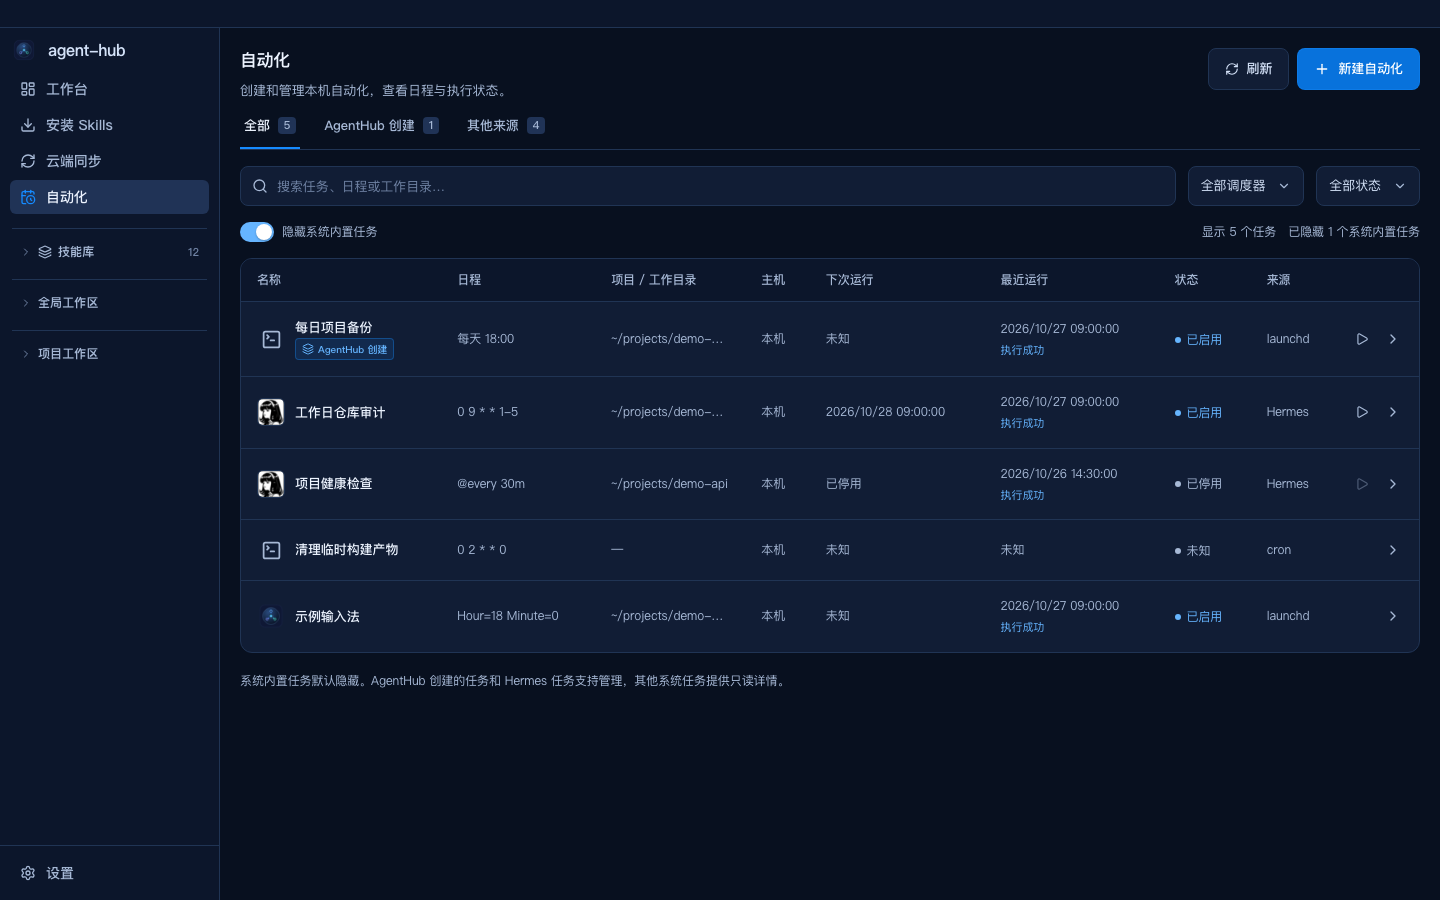
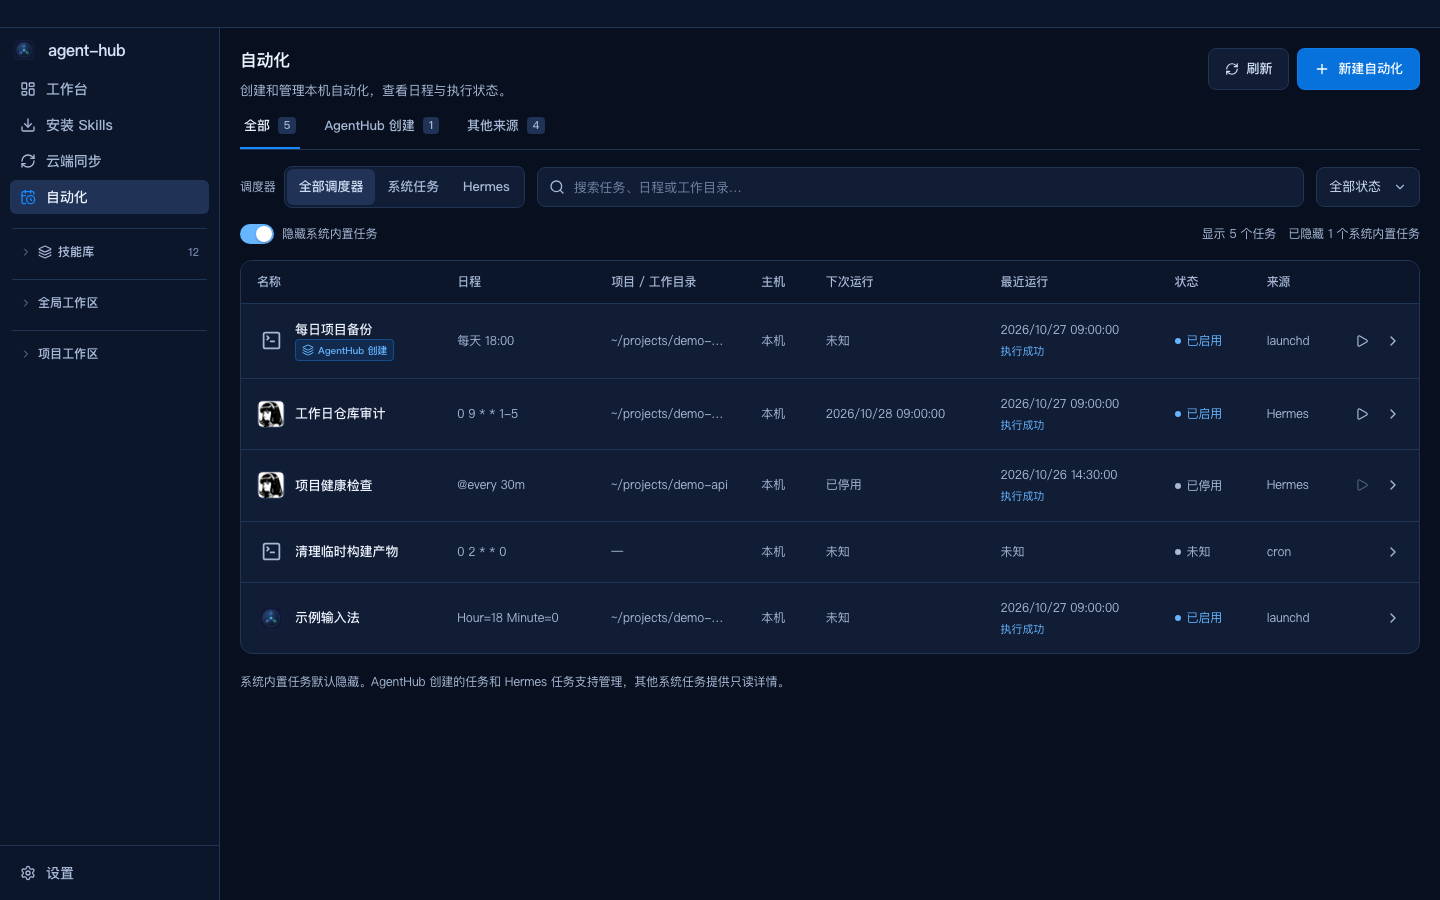
fix(automation): 展示 Hermes 调度器快捷筛选
Refs #209

将调度器下拉改为常显的全部／系统任务／Hermes 按钮，支持与创建者、
状态和搜索组合，未安装 Hermes 时隐藏入口；返回列表保留筛选。
同步 README 与合成脱敏截图。

验证：前端 609 项、自动化专项 29 项、lint、TypeScript/Vite 通过。

diff --git a/src/views/Automation.test.tsx b/src/views/Automation.test.tsx
@@ -200,7 +200,7 @@ it("hides built-in maintenance by default and reveals it with a filter switch", 
   );
   await act(async () => toggle.click());
   expect(container.querySelectorAll("tbody tr")).toHaveLength(2);
-  await select("任务来源", "hermes");
+  await chooseSource("hermes");
   expect(container.querySelectorAll("tbody tr")).toHaveLength(1);
   expect(container.textContent).not.toContain("已隐藏");
   await click("刷新");
@@ -267,10 +267,10 @@ it("aggregates system and Hermes tasks and filters by source and status", async 
   expect(api.getAutomationOverview).toHaveBeenCalledOnce();
   expect(api.getAutomationOverview).toHaveBeenCalledWith("zh");
   expect(container.querySelectorAll("tbody tr")).toHaveLength(2);
-  await select("任务来源", "hermes");
+  await chooseSource("hermes");
   expect(container.querySelectorAll("tbody tr")).toHaveLength(1);
   expect(container.querySelector("tbody")?.textContent).toContain("仓库审计");
-  await select("任务来源", "system");
+  await chooseSource("system");
   expect(container.querySelector("tbody")?.textContent).toContain("系统备份");
   const statusSelect = container.querySelector<HTMLSelectElement>(
     '[aria-label="任务状态"]',
@@ -290,7 +290,7 @@ it("hides the Hermes entry unless executable installation evidence is present", 
   });
   await render();
   expect(
-    [...container.querySelectorAll('[aria-label="任务来源"] option')].map(
+    [...container.querySelectorAll('[aria-label="任务来源"] button')].map(
       (node) => node.textContent,
     ),
   ).toEqual(["全部调度器", "系统任务"]);
@@ -450,6 +450,12 @@ async function select(label: string, value: string) {
     node.dispatchEvent(new Event("change", { bubbles: true }));
   });
 }
+async function chooseSource(value: "all" | "system" | "hermes") {
+  const button = container.querySelector<HTMLButtonElement>(
+    `[aria-label="任务来源"] button[value="${value}"]`,
+  )!;
+  await act(async () => button.click());
+}
 async function input(label: string, value: string) {
   const node = container.querySelector<HTMLInputElement | HTMLTextAreaElement>(
     `[aria-label="${label}"]`,
@@ -475,14 +481,17 @@ it("keeps list filters on return and supports direct task links and missing task
   await render("/automation?task=missing");
   expect(container.textContent).toContain("任务已移除或当前不可用");
   await ariaClick("返回自动化列表");
-  await select("任务来源", "hermes");
+  await chooseSource("hermes");
   await click(hermes.name);
   await ariaClick("返回自动化列表");
   expect(container.querySelectorAll("tbody tr")).toHaveLength(1);
   expect(
-    container.querySelector<HTMLSelectElement>('[aria-label="任务来源"]')!
-      .value,
-  ).toBe("hermes");
+    container
+      .querySelector<HTMLButtonElement>(
+        '[aria-label="任务来源"] button[value="hermes"]',
+      )!
+      .getAttribute("aria-pressed"),
+  ).toBe("true");
 });
 
 it("uses explicit ownership for the AgentHub filter rather than the job name", async () => {
@@ -949,4 +958,45 @@ it("labels Hermes result files as saved output instead of inventing execution st
   expect(panel.textContent).toContain("已保存");
   expect(panel.textContent).not.toContain("退出码");
   expect(panel.textContent).not.toContain("结束时间");
+});
+
+it("offers a visible Hermes filter that combines with creator filters", async () => {
+  const ownedHermes = {
+    ...hermes,
+    id: "agent_hub:hermes-audit",
+    name: "托管审计",
+    origin: "agent_hub" as const,
+  };
+  vi.mocked(api.getAutomationOverview).mockResolvedValue({
+    tasks: [native, hermes, ownedHermes],
+    issues: [],
+    hermes_installed: true,
+  });
+  await render();
+  const group = container.querySelector('[aria-label="任务来源"]')!;
+  expect(
+    [...group.querySelectorAll("button")].map((node) => node.textContent),
+  ).toEqual(["全部调度器", "系统任务", "Hermes"]);
+  await chooseSource("hermes");
+  expect(container.querySelectorAll("tbody tr")).toHaveLength(2);
+  const origin = (value: string) =>
+    [
+      ...container.querySelectorAll<HTMLButtonElement>(
+        '[aria-label="任务创建者"] button',
+      ),
+    ].find((node) => node.textContent?.startsWith(value))!;
+  await act(async () => origin("其他来源").click());
+  expect(container.querySelectorAll("tbody tr")).toHaveLength(1);
+  expect(container.querySelector("tbody")?.textContent).toContain(hermes.name);
+  await act(async () => origin("AgentHub 创建").click());
+  expect(container.querySelector("tbody")?.textContent).toContain(
+    ownedHermes.name,
+  );
+  await chooseSource("system");
+  expect(container.querySelectorAll("tbody tr")).toHaveLength(0);
+  await chooseSource("all");
+  expect(container.querySelectorAll("tbody tr")).toHaveLength(1);
+  expect(container.querySelector("tbody")?.textContent).toContain(
+    ownedHermes.name,
+  );
 });

diff --git a/src/components/AutomationToolbar.tsx b/src/components/AutomationToolbar.tsx
@@ -43,6 +43,9 @@ export function AutomationToolbar({
 }) {
   const { t } = useTranslation();
   const origins = ["all", "agent_hub", "external"] as const;
+  const sources: AutomationSourceFilter[] = hermesInstalled
+    ? ["all", "system", "hermes"]
+    : ["all", "system"];
   return (
     <div className="space-y-4">
       <div
@@ -77,6 +80,36 @@ export function AutomationToolbar({
         ))}
       </div>
       <div className="flex flex-wrap items-center gap-3">
+        <div className="flex max-w-full flex-wrap items-center gap-2">
+          <span className="text-[12px] text-muted">
+            {t("automation.scheduler")}
+          </span>
+          <div
+            role="group"
+            aria-label={t("automation.sourceFilter")}
+            className="app-segmented inline-flex max-w-full flex-wrap"
+          >
+            {sources.map((value) => (
+              <button
+                key={value}
+                type="button"
+                value={value}
+                aria-pressed={source === value}
+                onClick={() => onSource(value)}
+                className={cn(
+                  "app-segmented-button focus-visible:outline focus-visible:outline-2 focus-visible:outline-accent",
+                  source === value && "app-segmented-button-active",
+                )}
+              >
+                {t(
+                  value === "all"
+                    ? "automation.allSources"
+                    : `automation.filters.${value}`,
+                )}
+              </button>
+            ))}
+          </div>
+        </div>
         <label className="relative min-w-0 flex-1 basis-64">
           <Search
             aria-hidden="true"
@@ -92,24 +125,6 @@ export function AutomationToolbar({
             className="app-input w-full pl-9"
           />
         </label>
-        <ThemedSelect
-          value={source}
-          onChange={(e) =>
-            onSource(
-              e.target.value === "hermes"
-                ? "hermes"
-                : e.target.value === "system"
-                  ? "system"
-                  : "all",
-            )
-          }
-          aria-label={t("automation.sourceFilter")}
-          className="app-input"
-        >
-          <option value="all">{t("automation.allSources")}</option>
-          <option value="system">{t("automation.filters.system")}</option>
-          {hermesInstalled && <option value="hermes">Hermes</option>}
-        </ThemedSelect>
         <ThemedSelect
           value={status}
           onChange={(e) => onStatus(e.target.value)}

diff --git a/tests/browser/product-preview.tsx b/tests/browser/product-preview.tsx
@@ -694,10 +694,19 @@ if (automationState) {
       }
       return;
     }
+    if (automationState === "hermes") {
+      const filter = await waitFor(() =>
+        document.querySelector<HTMLElement>(
+          '[aria-label="任务来源"] button[value="hermes"]',
+        ),
+      );
+      filter.click();
+      return;
+    }
     if (automationState === "menu") {
       const trigger = await waitFor(() =>
         document.querySelector<HTMLElement>(
-          'button[role="combobox"][aria-label="任务来源"]',
+          'button[role="combobox"][aria-label="任务状态"]',
         ),
       );
       trigger.click();

diff --git a/CHANGELOG.md b/CHANGELOG.md
@@ -6,6 +6,8 @@
 
 ### Changed
 
+- 自动化调度器改为常显的“全部调度器／系统任务／Hermes”快捷筛选，可与创建者、状态和搜索组合；Hermes 仅在本机安装后显示。
+
 - 应用内单选菜单统一主题、键盘、嵌套 Escape、portal 与文字缩放定位，项目开发 Skill 补充 UI/组件规范。
 - 需求、规格与任务统一迁移至 GitHub Issues，按版本关联 Milestones；自动同步分诊状态及发布归属，清理本地任务记录、旧提交约定与 CI 任务索引检查。
 
